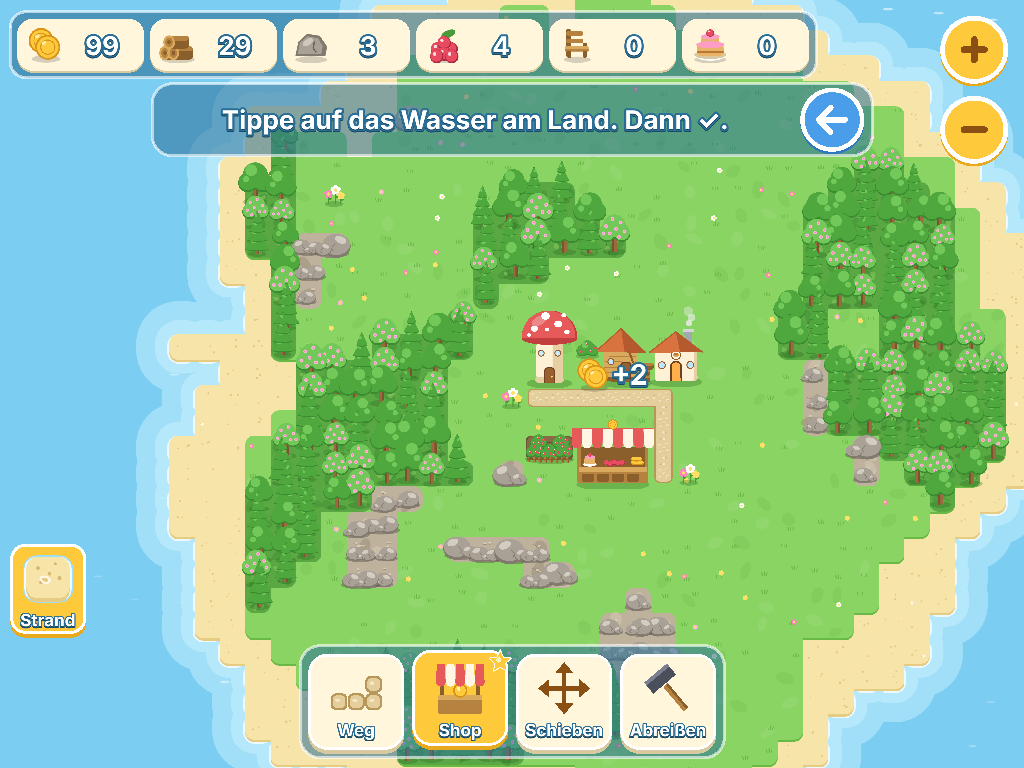
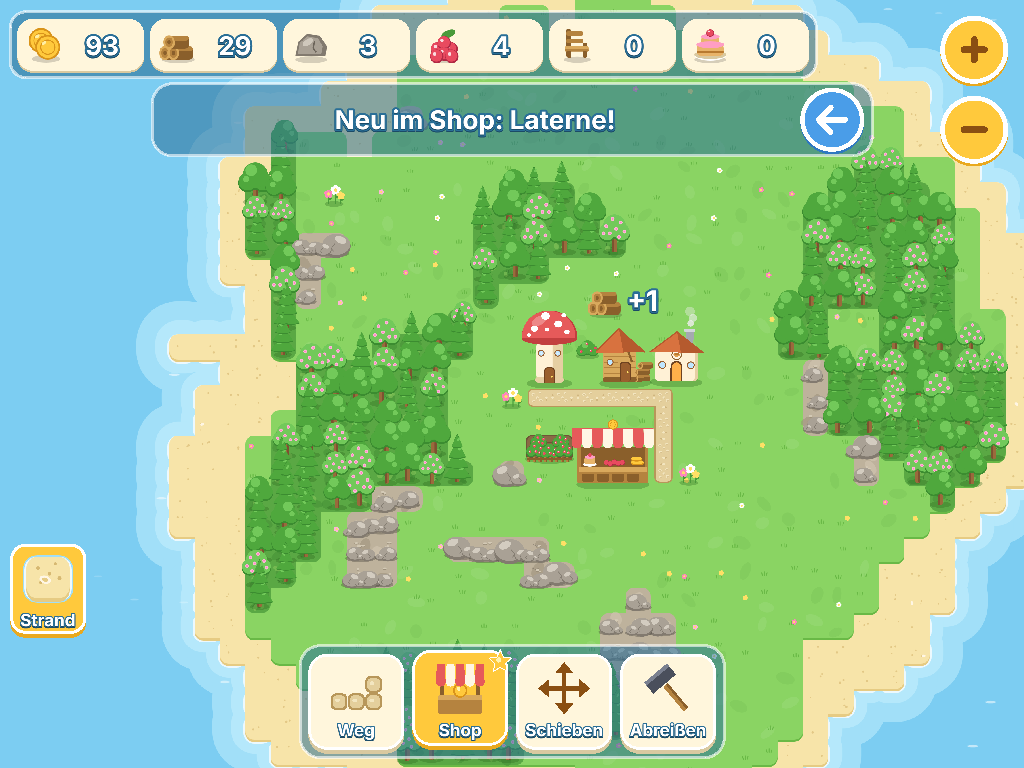
M4 Korrektur 3: Satz-Zeile misst den Text und passt ihn an, kürzere Sperr-Sätze (B1); Neuigkeit zählt ab dem ersten Zeigen (B2)
- Smoke misst die Satzhöhe auf 5 Schirmgrößen; Reihenfolge Shop vor kleinen Schirmen
- Screenshots und Entscheidungen aktualisiert

Claude-Session: https://claude.ai/code/session_015a3tMdQPCWfoYbrEFX6U2W

diff --git a/tests/ui/messageBoard.test.ts b/tests/ui/messageBoard.test.ts
@@ -15,7 +15,8 @@ describe('MessageBoard: Erklärung und Neuigkeit (N3)', () => {
   it('zeigt eine Neuigkeit über einer stehenden Erklärung, danach ist die Erklärung wieder da', () => {
     const board = new MessageBoard();
     board.explain('Das ist von allein gewachsen.');
-    board.announce('Neu im Shop: Bank!', 1000, 7000);
+    board.announce('Neu im Shop: Bank!', 7000);
+    expect(board.current(1000)).toBe('Neu im Shop: Bank!');
     expect(board.current(1000)).toBe('Neu im Shop: Bank!');
     expect(board.current(7999)).toBe('Neu im Shop: Bank!');
     expect(board.current(8000)).toBe('Das ist von allein gewachsen.');
@@ -25,27 +26,40 @@ describe('MessageBoard: Erklärung und Neuigkeit (N3)', () => {
   it('löscht ein Tipp während der Neuigkeit nur die Erklärung, nicht die Neuigkeit', () => {
     const board = new MessageBoard();
     board.explain('Alt.');
-    board.announce('Neu!', 0, 5000);
+    board.announce('Neu!', 5000);
     board.clearExplanation();
     expect(board.current(100)).toBe('Neu!');
-    expect(board.current(5000)).toBeUndefined();
+    expect(board.current(5100)).toBeUndefined();
   });
 
   it('eine Erklärung, die während der Neuigkeit kommt, erscheint nach ihr', () => {
     const board = new MessageBoard();
-    board.announce('Neu!', 0, 5000);
+    board.announce('Neu!', 5000);
     board.explain('Hier geht das nicht.');
     expect(board.current(10)).toBe('Neu!');
-    expect(board.current(5001)).toBe('Hier geht das nicht.');
+    expect(board.current(5010)).toBe('Hier geht das nicht.');
   });
 
   it('hält die Neuigkeit zurück, solange eine Vorschau mit eigenem Hinweis da ist (ihre Zeit läuft weiter)', () => {
     const board = new MessageBoard();
-    board.announce('Neu!', 0, 5000);
+    board.announce('Neu!', 5000);
     expect(board.current(100, false)).toBeUndefined();
     board.explain('Alt.');
     expect(board.current(100, false)).toBe('Alt.');
     expect(board.current(100, true)).toBe('Neu!');
     expect(board.current(6000, true)).toBe('Alt.');
+  });
+
+  it('zählt die Zeit der Neuigkeit erst ab dem ersten Zeigen: eine lange Vorschau davor verschluckt sie nicht (B2)', () => {
+    const board = new MessageBoard();
+    board.announce('Neu im Shop: Strand!', 7000);
+    // 20 Sekunden lang steht eine Vorschau: die Neuigkeit wird zurückgehalten.
+    for (let now = 0; now <= 20_000; now += 1000) {
+      expect(board.current(now, false)).toBeUndefined();
+    }
+    // Danach wird sie voll gezeigt: 7 Sekunden ab jetzt.
+    expect(board.current(20_500, true)).toBe('Neu im Shop: Strand!');
+    expect(board.current(27_000, true)).toBe('Neu im Shop: Strand!');
+    expect(board.current(27_500, true)).toBeUndefined();
   });
 });

diff --git a/src/scenes/island/ShopUI.ts b/src/scenes/island/ShopUI.ts
@@ -128,6 +128,8 @@ export interface ShopSpot {
   readonly active?: boolean;
   /** Tabs: the size of the word under the picture (0: only the picture). */
   readonly font?: number;
+  /** The line: height of the sentence as measured (CSS px). */
+  readonly textH?: number;
 }
 
 /**
@@ -377,8 +379,9 @@ export class ShopUI {
 
   /**
    * The fixed line at the bottom of the panel: the sentence of a locked card, or – while nothing was tapped – a calm standing
-   * sentence. At least 12 px: a long sentence gets two lines where the line is high enough, and every sentence fits one
-   * line at 12 px on the narrowest screen (a test checks their length).
+   * sentence. At least 12 px: the letters get smaller (down to 12 px) until the measured text fits into the line; the
+   * sentences are short enough to fit one line at 12 px on the narrowest line (the smoke test measures the height of
+   * every locked sentence on 480×320, 568×320, 320×568 and 360×640).
    */
   private drawLine(): void {
     const layout = this.layoutData;
@@ -395,9 +398,14 @@ export class ShopUI {
       this.tipPanel.lineStyle(3, COLORS.markerRim, 1).strokeRoundedRect(x, y, width, height, radius);
     }
     const maxW = width - 20;
-    const size = clamp(height * 0.42, MIN_LINE_FONT, 20);
+    let size = clamp(height * 0.42, MIN_LINE_FONT, 20);
     this.tipLabel.setWordWrapWidth(maxW).setText(filled ? this.tip : t('shop.lineDefault')).setAlpha(filled ? 1 : 0.85);
     setLabelSize(this.tipLabel, size, maxW);
+    // The text as measured (after wrapping) must fit into the line: smaller letters until it does, never under 12 px.
+    while (this.tipLabel.height > height - 4 && size > MIN_LINE_FONT) {
+      size -= 1;
+      setLabelSize(this.tipLabel, size, maxW);
+    }
     this.tipLabel.setPosition(x + width / 2, y + height / 2);
   }
 
@@ -415,7 +423,7 @@ export class ShopUI {
     }
     const center = (rect: Rect): { x: number; y: number; w: number; h: number } => ({ x: rect.x + rect.width / 2, y: rect.y + rect.height / 2, w: rect.width, h: rect.height });
     spots['shop'] = center(layout.rect);
-    spots['shop-line'] = center(layout.line);
+    spots['shop-line'] = { ...center(layout.line), textH: this.tipLabel.height };
     SHOP_CATEGORIES.forEach((category, index) => {
       const rect = layout.tabs[index];
       if (rect) {

diff --git a/tests/ui/shopModel.test.ts b/tests/ui/shopModel.test.ts
@@ -60,10 +60,10 @@ describe('shopCards', () => {
 
 describe('Sätze und Symbole für gesperrte Karten', () => {
   it('nennen Gebäude, Häuser und Taler in kurzen Sätzen', () => {
-    expect(unlockSentenceText({ kind: 'count', building: 'lumberjack', count: 1 })).toBe('Baue 1× Holzfällerhütte, dann ist das frei.');
-    expect(unlockSentenceText({ kind: 'houses', count: 2 })).toBe('Baue 2 Häuser, dann ist das frei.');
-    expect(unlockSentenceText({ kind: 'houses', count: 1 })).toBe('Baue ein Haus, dann ist das frei.');
-    expect(unlockSentenceText({ kind: 'earned', coins: 1250 })).toBe('Verdiene 1.250 Taler auf dem Markt, dann ist das frei.');
+    expect(unlockSentenceText({ kind: 'count', building: 'lumberjack', count: 1 })).toBe('Baue 1× Holzfällerhütte, dann ist es frei.');
+    expect(unlockSentenceText({ kind: 'houses', count: 2 })).toBe('Baue 2 Häuser, dann ist es frei.');
+    expect(unlockSentenceText({ kind: 'houses', count: 1 })).toBe('Baue ein Haus, dann ist es frei.');
+    expect(unlockSentenceText({ kind: 'earned', coins: 1250 })).toBe('Verdiene 1.250 Taler am Markt, dann ist es frei.');
   });
 
   it('jede Bedingung der Daten ergibt einen Satz, der in die Hinweisleiste eines Handys passt (höchstens 100 Zeichen)', () => {
@@ -79,16 +79,16 @@ describe('Sätze und Symbole für gesperrte Karten', () => {
     }
   });
 
-  it('jeder Satz für eine gesperrte Karte passt in einer Zeile bei 12 px in die Zeile des schmalsten Handys quer (höchstens 56 Zeichen)', () => {
+  it('jeder Satz für eine gesperrte Karte ist kurz genug für eine Zeile bei 12 px in der Zeile des schmalsten Handys quer (gemessen 5,85 px je Zeichen: höchstens 48 Zeichen bei 296 px; die Höhe misst der Smoke)', () => {
     for (const category of SHOP_CATEGORIES) {
       for (const type of shopItems(category)) {
         const unlock = unlockOf(type.id);
         if (unlock) {
-          expect(unlockSentenceText(unlock).length, type.id).toBeLessThanOrEqual(56);
+          expect(unlockSentenceText(unlock).length, type.id).toBeLessThanOrEqual(48);
         }
       }
     }
-    expect(t('shop.lineDefault').length).toBeLessThanOrEqual(56);
+    expect(t('shop.lineDefault').length).toBeLessThanOrEqual(48);
   });
 
   it('zeigen als Symbol das Gebäude, ein Haus oder Markt und Taler', () => {

diff --git a/src/scenes/island/BuildUI.ts b/src/scenes/island/BuildUI.ts
@@ -43,6 +43,8 @@ export interface UiSpot {
   readonly badge?: boolean;
   /** Toolbar buttons and shop tabs: the size of the word under the picture (0: only the picture). */
   readonly font?: number;
+  /** The shop line: height of the sentence as measured (CSS px). */
+  readonly textH?: number;
 }
 
 /** The words under the toolbar buttons and the shop tabs are at least this big (CSS px), else only the picture stays. */
@@ -512,7 +514,7 @@ export class BuildUI {
     // Something was unlocked: a friendly message (and the star on the shop button, which `refresh` redraws).
     const news = this.tool.takeAnnouncements();
     if (news.length > 0) {
-      this.board.announce(newItemsText(news), this.scene.time.now, NEWS_MS);
+      this.board.announce(newItemsText(news), NEWS_MS);
       this.lastMessage = undefined;
     }
     // The numbers pop when they change; cards that can (not) be paid for change with them.
@@ -549,7 +551,7 @@ export class BuildUI {
         delete spots['zoom-out'];
       }
       for (const [name, spot] of Object.entries(this.shop.spots(this.tool.item))) {
-        spots[name] = { x: spot.x, y: spot.y, enabled: true, w: spot.w, h: spot.h, ...(spot.state !== undefined ? { state: spot.state, dim: spot.state !== 'ok' } : {}), ...(spot.fresh !== undefined ? { fresh: spot.fresh } : {}), ...(spot.active !== undefined ? { active: spot.active } : {}), ...(spot.font !== undefined ? { font: spot.font } : {}) };
+        spots[name] = { x: spot.x, y: spot.y, enabled: true, w: spot.w, h: spot.h, ...(spot.state !== undefined ? { state: spot.state, dim: spot.state !== 'ok' } : {}), ...(spot.fresh !== undefined ? { fresh: spot.fresh } : {}), ...(spot.active !== undefined ? { active: spot.active } : {}), ...(spot.font !== undefined ? { font: spot.font } : {}), ...(spot.textH !== undefined ? { textH: spot.textH } : {}) };
       }
       const stockRect = this.stock.rect;
       spots['stock'] = { x: stockRect.x + stockRect.width / 2, y: stockRect.y + stockRect.height / 2, enabled: true, w: stockRect.width, h: stockRect.height };

diff --git a/src/ui/messageBoard.ts b/src/ui/messageBoard.ts
@@ -7,7 +7,8 @@
  */
 export class MessageBoard {
   private explanation: string | undefined;
-  private news: { readonly text: string; readonly until: number } | undefined;
+  /** `until` is set when the news is first really shown: a preview that keeps it back does not use up its time. */
+  private news: { readonly text: string; readonly durationMs: number; until: number | undefined } | undefined;
 
   /** An explanation that stays until {@link clearExplanation}. */
   explain(text: string): void {
@@ -19,18 +20,21 @@ export class MessageBoard {
     this.explanation = undefined;
   }
 
-  /** News that shows for `durationMs` from `now`. */
-  announce(text: string, now: number, durationMs: number): void {
-    this.news = { text, until: now + durationMs };
+  /** News that shows for `durationMs`, counted from the first time it is really shown. */
+  announce(text: string, durationMs: number): void {
+    this.news = { text, durationMs, until: undefined };
   }
 
   /**
    * What the hint bar shows at time `now`: news while it lasts, else the explanation, else nothing. `withNews = false`
-   * keeps the news back (its time still runs): while a preview is on, its own hint ("Du bekommst 5 Taler zurück. Dann ✓.") matters more.
+   * keeps the news back (its time starts only when it is shown): while a preview is on, its own hint ("Du bekommst 5 Taler zurück. Dann ✓.") matters more.
    */
   current(now: number, withNews = true): string | undefined {
-    if (withNews && this.news && now < this.news.until) {
-      return this.news.text;
+    if (withNews && this.news) {
+      this.news.until ??= now + this.news.durationMs;
+      if (now < this.news.until) {
+        return this.news.text;
+      }
     }
     return this.explanation;
   }

diff --git a/docs/ENTSCHEIDUNGEN.md b/docs/ENTSCHEIDUNGEN.md
@@ -107,7 +107,7 @@ Selbst getroffene Entscheidungen während des autonomen Laufs, die der Entwicklu
 | 31.10.2026 | M4 | **Daten:** `buildings.json` bekommt je Artikel (nicht Weg) `shop: { category }` (`houses`, `deco`, `production`, `island`; die Reihenfolge der Datei ist die Reihenfolge im Shop), optional `unlock` und bei Inselartikeln `island: { action }` (`plantTree`, `placeRock`, `fillLand`, `makeMeadow`); `look.scale` zeichnet das große Haus 1,5-fach. Die Typen der Kategorie `island` sind Bautypen ohne Gebäude (1×1, `terrains` = der Boden, den sie brauchen). Laufzeit: `unlockOf` prüft und liefert bei kaputten Werten „frei“ (ein Tippfehler sperrt nie für immer), `shopItems`, `shopCategoryOf`; Test `tests/data/shop.test.ts`: jede Kategorie ≥ 3 Artikel, jeder Artikel in genau einer Kategorie passend zur Art, Preise ganz und aus bekannten Dingen, jede `unlock`-Referenz zeigt auf einen vorhandenen Typ (nicht auf sich selbst, nicht auf Weg oder Inselartikel), keine Kreise, jede Kette endet bei einem freien Typ, Holzfäller, Beerengarten, Markt, Baum, Fels sind frei, alle Texte vorhanden. Kostenzeile (`CostRow`) zeigt höchstens 4 verschiedene Dinge | Balancing und Inhalt ohne Code; ein Fehler im JSON fällt im CI auf und stürzt zur Laufzeit nicht ab (wie in M3) | Eigene Shop-Datei mit Artikelliste; Reihenfolge per Zahl `order` |
 | 31.10.2026 | M4 | **Freischaltungen laufen über Dorf-Fortschritt**, ohne zweite Währung und ohne Extra-Zahlung. Bedingungen (`unlock` in `buildings.json`): `count` (mindestens N Gebäude vom Typ X stehen), `houses` (mindestens N Häuser jeder Art stehen), `earned` (der Markt hat insgesamt mindestens N Taler verdient). Zustand: `earnedCoins` (der Markt zählt jeden Verkauf; Obergrenze wie das Lager), `unlocked` (Liste der Typ-Ids mit Bedingung, in der Reihenfolge der Erfüllung, JSON-tauglich, `normalizeUnlocked` für M5); **einmal erfüllt bleibt ein Artikel für immer frei**, auch nach Abreißen. `src/sim/unlocks.ts` (rein, getestet): `checkUnlocks` läuft am Ende jedes Ticks und nach jedem Befehlsstapel (auch pausiert; der Startzustand prüft einmal), `isUnlocked`, `progressOf`, `lockOf`. `checkPlacement` meldet `locked` **gleich nach „unbekannter Typ“** (vor Rand, Boden, Kosten); `placeBuilding` und die Inselbefehle eines gesperrten Typs ändern nichts; **Verschieben** prüft `locked` nicht (was steht, ist frei). Nichts, was man zum Weiterkommen braucht, ist gesperrt: Holzfäller, Beerengarten, Markt, Haus (rot, blau, gelb), Blume, Busch, Zaun, Baum und Fels sind von Anfang an frei | Freischalten ist Spielfortschritt statt Kaufzwang; einfache Zählwerte (ein Kind sieht „0/1“); permanent, damit Abreißen nichts wegnimmt; kein Weg in die Sackgasse (der Bot-Test schaltet alles frei) | Zweite Währung („Sterne“); Freischaltung gegen Taler; Bedingungen auf dem Zustand (nicht dauerhaft); Zeit als Bedingung |
 | 31.10.2026 | M4 | **(Werte für Beere, Kuchen, Beerengarten, Garten-Haus und Brunnen geändert in Korrekturrunde 1, siehe unten.) Balancing der Freischaltungen und Preise** (alles in `buildings.json`): Bäckerei nach 1 Beerengarten (steht am Start, also sofort frei), Schreinerei und Steinbruch nach 1 Holzfäller, Teich nach 1 Steinbruch; Großes Pilzhaus (3×3, 90 Taler + 16 Holz) und Blumenbeet nach 2 Häusern (das Startdorf hat 1); Bank nach 40, Strand 60, Laterne 100, Wiese 120, Pilzhaus mit Garten (3×2, 70 Taler + 10 Holz) 150, Brunnen 250 verdienten Talern. Der Bot (Bäckerei zuerst) erreicht die ersten sechs Freischaltungen in etwa 2 Minuten, alle in etwa 5 Minuten; ein Kind braucht erfahrungsgemäß das Zwei- bis Dreifache, also die ersten Neuigkeiten nach wenigen Minuten und alles nach 10–15. Kosten: Blumenbeet 8 Taler, Teich 20 Taler + 2 Stein, Baum 5 Taler, Fels 10 Taler, Strand 6 Taler, Wiese 4 Taler (alle anderen wie in M3) | Schnell etwas Neues, aber nicht alles auf einmal; Verdienen (Markt) und Bauen führen beide weiter, nichts wartet auf Zufall | Höhere Schwellen (erst ab 30 Minuten alles frei); Freischaltung nur über Gebäude |
-| 31.10.2026 | M4 | **Neu freigeschaltet:** Die Szene zeigt für 5 Sekunden in der Hinweisleiste „Neu im Shop: Bank und Laterne!“ (höchstens drei Namen, `newItemsText`), und der Shop-Knopf trägt einen Stern, bis der Shop geöffnet wurde; im geöffneten Shop tragen die neuen Karten einen Stern, bis er geschlossen wird; was während des offenen Shops frei wird, zählt sofort als gesehen, trägt aber ebenfalls den Stern. `BuildTool` hält dafür `takeAnnouncements` (jede Freischaltung einmal), `shopHasNews`, `isFresh`. Beim Start (und später beim Laden, M5) gibt es keine Meldung für schon Freigeschaltetes. Gesperrte Karten zeigen ein goldenes Schloss auf dem grauen Bild und als Fuß statt der Kosten das **Bild der Bedingung mit „0/1“** (Gebäude, ein Haus oder Taler); ein Tipp auf die Karte wählt nichts und zeigt 3,4 Sekunden lang den kurzen Satz in einer Sprechblase („Baue 1× Holzfällerhütte, dann ist das frei.“) | Das Kind sieht sofort, dass es Neues gibt, und wo; Bild + Zahl reichen ohne Lesen, der Satz erklärt für Leser; keine Meldung beim Laden verhindert Lärm | Eigener Dialog; Meldung bis zum Antippen; Stern nur am Knopf |
+| 31.10.2026 | M4 | **Neu freigeschaltet:** Die Szene zeigt für 5 Sekunden in der Hinweisleiste „Neu im Shop: Bank und Laterne!“ (höchstens drei Namen, `newItemsText`), und der Shop-Knopf trägt einen Stern, bis der Shop geöffnet wurde; im geöffneten Shop tragen die neuen Karten einen Stern, bis er geschlossen wird; was während des offenen Shops frei wird, zählt sofort als gesehen, trägt aber ebenfalls den Stern. `BuildTool` hält dafür `takeAnnouncements` (jede Freischaltung einmal), `shopHasNews`, `isFresh`. Beim Start (und später beim Laden, M5) gibt es keine Meldung für schon Freigeschaltetes. Gesperrte Karten zeigen ein goldenes Schloss auf dem grauen Bild und als Fuß statt der Kosten das **Bild der Bedingung mit „0/1“** (Gebäude, ein Haus oder Taler); ein Tipp auf die Karte wählt nichts und zeigt 3,4 Sekunden lang den kurzen Satz in einer Sprechblase („Baue 1× Holzfällerhütte, dann ist es frei.“) | Das Kind sieht sofort, dass es Neues gibt, und wo; Bild + Zahl reichen ohne Lesen, der Satz erklärt für Leser; keine Meldung beim Laden verhindert Lärm | Eigener Dialog; Meldung bis zum Antippen; Stern nur am Knopf |
 | 31.10.2026 | M4 | **Kategorie „Insel“** (Vorstufe der Insel-Erweiterungen aus M10): vier Artikel, die das **Gelände** einer Kachel ändern statt ein Gebäude zu setzen – Baum pflanzen (Wiese → Wald, zählt für den Holzfäller), Fels setzen (Wiese → Fels, zählt für den Steinbruch), Strand aufschütten (Wasser, das an Land grenzt → Strand), Wiese anlegen (Strand → Wiese, damit man darauf bauen kann). Eigene Befehle in `commands.ts` (`plantTree`, `placeRock`, `fillLand`, `makeMeadow`, `placementCommand` wählt den richtigen), `src/sim/island.ts`; Prüfung über dasselbe `checkPlacement` (Boden, nichts darauf, Kosten, gesperrt) mit zwei neuen Gründen `locked` und `noCoast`; **Land entsteht nicht näher als 2 Kacheln am Kartenrand** (`ISLAND_EDGE`, sonst `outOfMap`, „zu nah am Rand“): die Insel bleibt von Wasser umgeben und die Textur bleibt 48×48. Jede Änderung zählt als Änderung (`revision`). **Abreißen** erstattet bei einem **selbst gepflanzten** Baum oder Fels die Kosten und macht die Kachel zur Wiese (`planted`: Liste der Kacheln im Zustand, sortiert; ein Baum, der später etwas anderes ist, gibt nichts); **natürliche** Bäume und Felsen lassen sich nicht abreißen (Hinweis „Das ist von allein gewachsen. Das bleibt.“). **Ausnahme vom Prinzip „Abreißen erstattet“:** Strand aufschütten und Wiese anlegen sind endgültig und bekommen keine Erstattung (billig: 6 und 4 Taler; die Vorschau zeigt vorher die Kosten); das Abreißen auf solchen Kacheln tut nichts | Gestalten ist der Kern-Spaß; vier Artikel zeigen schon, wie die Insel wachsen kann, ohne M10 vorwegzunehmen; die Ausnahme ist nötig, weil „Wasser zurück“ die Karte und ihre Wege/Gebäude durcheinanderbrächte | Land auch ohne Anschluss ans Ufer; Erstattung auch für Strand; Bäume pflanzen nur im Wald |
 | 31.10.2026 | M4 | **(Ersetzt in Korrekturrunde 1 durch Blöcke, siehe unten.) Boden neu malen:** Der Boden ist eine Canvas-Textur (3072×3072). `repaintGround` (`groundTexture.ts`) schneidet auf die geänderten Kacheln plus `REPAINT_REACH` = 2 Kacheln zu (so weit reichen Meerhalo, Schaum und Ecken), füllt sie mit Tiefwasser und malt dort alle Schichten für die Kacheln im Umkreis von 2 weiteren Kacheln – das Ergebnis ist bis auf Rundungen am Rand des Bereichs gleich zu einem ganzen Neumalen (einmalig in Chromium verglichen: nach Strand, Wiese, Baum und Fels hintereinander auf vier Inseln weichen nur einige hundert Randwerte um höchstens 4 von 255 ab, nicht sichtbar) –, danach `texture.refresh()`; sind mehr als ein Viertel der Karte betroffen, wird ganz neu gemalt. `IslandScene.syncTerrain` vergleicht bei jeder neuen `revision` das Gelände mit dem Gezeichneten, tauscht Baum- und Felsbilder aus (neue ploppen auf, Puff), entfernt Wasserglitzern auf neuem Land und ersetzt die Kamera-Mittelpunktsbereiche (`landRegions`), wenn Land dazukam (das Kamera-Objekt liest sie bei jedem Zug neu). **Gemessen** (Headless-Chromium, Software-Rendering, 8 fps): Baum 50–60 ms für 25 Kacheln inklusive Textur-Upload, Strand ähnlich; veröffentlicht in `<html data-repaint>`, der Smoke-Test verlangt unter 250 ms | Ein Baum soll nicht 100 ms am Stück kosten; Teilmalen ist nur eine Zuschneide-Region und derselbe Code; das Ergebnis ändert sich nicht | Ganze Textur neu malen (etwa 6-mal so viele Kacheln); Boden aus Kachel-Sprites statt einer Textur |
 | 31.10.2026 | M4 | **Mehr Inhalt, Platzhalter** (Canvas, Kachelgröße 64): 5 Häuser (rot, blau, gelb wie bisher; Großes Pilzhaus grün 3×3; Pilzhaus mit Garten rosa 3×2 mit Beet und Zäunchen), 8 Deko (Blume, Busch, Zaun, Bank, Laterne, Brunnen wie in M3; neu Blumenbeet 2×1 und Teich 2×2), die 6 Gebäude aus M3, 4 Inselartikel. Das große Haus ist dasselbe Bild 1,5-fach (`look.scale`). **Zaun deutlicher** (Spieltest M3): 4 hohe helle Latten mit Spitze, dicken Riegeln und dunkler Kante, Bild 34 statt 14 px über der Kachel | Auswahl zum Gestalten, auf Karten gut unterscheidbar; der Zaun war als Karte kaum zu erkennen | Eigene Zeichnung für das große Haus |
@@ -121,4 +121,5 @@ Selbst getroffene Entscheidungen während des autonomen Laufs, die der Entwicklu
 | 31.10.2026 | M4 | **Korrekturrunde 1 – Zufallstest mit Küste (R2):** Zwei Runden (Seeds 1 und 4): wie am Start (Strand und Wiese gesperrt – es darf keiner gelingen, solange `beach` und `meadow` nicht frei sind) und mit allem freigeschaltet und viel Geld; `fillLand` zielt auf Wasser an Land, `makeMeadow` auf Strand (Liste alle 5 Schritte neu); **2500 Schritte** bei 10 Befehlsarten (Setzen 2 von 10, Wege, Verschieben, Abreißen je 1 von 10 – also 500, 250, 250, 250 Mal wie in M3 mit 1500 Schritten bei 6 Arten); nach jeder Runde müssen mindestens 10 Strände, 5 Wiesen, 5 Bäume und 5 Felsen gelungen sein, die Invarianten (Lager, `planted` sortiert mit Artikel, `unlocked` nur Typen mit Bedingung, `earnedCoins` ganz) gelten nach jedem Schritt | Strand und Wiese waren im alten Test beim Start gesperrt und zielten ins Blaue; jetzt sind sie wirklich im Spiel | Nur die zweite Runde (die Sperre würde nie geprüft) |
 | 31.10.2026 | M4 | **Korrekturrunde 1 – Kleinigkeiten:** (R5) Ein gepflanzter Baum auf der Kachel zählt wie ein Weg: der Dach-Treffer eines Hauses dahinter gewinnt nicht mehr, der Baum lässt sich abreißen (`BuildTool.tap`, Test); (R6) `unlockOf` akzeptiert bei `count` nur Typen, die stehen können (Haus, Deko, Gebäude), nicht Weg oder Inselartikel; (R7) Die Inselbefehle tragen `typeId` und werden gegen `island.action` des Artikels geprüft (`ISLAND_COMMAND_ITEMS` entfällt), `planted` speichert `{ index, type }` (`PlantedTile`, `normalizePlanted` prüft Typ und Gelände), die Erstattung folgt dem Artikel; (R8) „0/1“ kommt aus `texts.de.json` (`shop.progress`); (R9) der Unit-Test „Werkzeug erneut antippen behält die Vorschau“ ist zurück (Weg und Shop), ebenso die Smoke-Prüfung mit `path`; (R10) Meldungen und Sterne vergleichen **nach Artikel-Id** (Menge vorher/nachher) statt nach Platz in `state.unlocked`; (T5) Reiter und Werkzeugleiste zeigen das Wort ab 12 px, sonst bei **allen** Knöpfen nur das Symbol (`SquareButton.minCaptionFont`, `setCaptionOff`, `captionFont` im `data-ui`), das Werkzeug heißt „Schieben“ (passt auch auf 320 px); (T8) Bei verdienten Talern zeigt die Karte **Markt und Münze** vor der Zahl („auf dem Markt verdienen“, `unlockIcons`); (R11) `CLAUDE.md` nennt `--out docs/screenshots/m5` als Beispiel (Standard m4), der Kommentar in `testShopSmall` stimmt | Review und Spieltest der ersten Fassung; jede Kleinigkeit mit Test | — |
 | 31.10.2026 | M4 | **Für M5 (Speichern) vermerkt:** Der Spielstand muss das **Gelände** (`world.tiles`) mitspeichern – ab M4 ändert es sich (Baum, Fels, Strand, Wiese); die Insel allein aus dem Seed zu erzeugen reicht nicht mehr. Es fehlen noch Normalisierer für das Gelände (nur bekannte Geländearten, Länge = Breite × Höhe) und für `earnedCoins` (ganze Zahl ≥ 0, höchstens `storage.max`); vorhanden sind `normalizeInventory`, `normalizePaths`, `normalizeUnlocked`, `normalizePlanted`. Das Laden darf keine „Neu im Shop“-Meldungen für schon Freigeschaltetes erzeugen (Meldungen und Sterne zählen nach Id, die Szene merkt sich beim Start die Menge) | Sonst fehlen nach dem Laden gepflanzte Bäume oder aufgeschüttetes Land, und Gebäude stünden auf Wasser | — |
-| 31.10.2026 | M4 | **Korrekturrunde 2 (Kosmetik):** (N1) `releaseGroundBlocks` entfernt die Block-Texturen und liefert die leere Liste, beim Herunterfahren und beim Neubauen der Szene: kein „No texture found matching key“ mehr beim Neustart (M5), Test; (N2) Die Zeile im Shop nimmt nie weniger als 12 px (zwei Zeilen, wo die Höhe reicht, sonst eine Zeile: auf Handys quer 30 px hoch, Rahmen oben 6 und unten 4 px, damit die 8 Karten weiter ohne Blättern passen); Test: jeder Sperr-Satz höchstens 56 Zeichen, also eine Zeile bei 12 px auch auf 480 px Breite; ohne Tipp steht in der Zeile ein ruhiger Standardsatz „Tippe auf etwas, das du bauen möchtest.“ (`shop.lineDefault`) statt eines leeren dunklen Balkens; (N3) `MessageBoard` (`src/ui/messageBoard.ts`, Test) hält Erklärung und Neuigkeit getrennt: „Neu im Shop“ liegt 7 s über einer stehenden Erklärung, danach ist sie wieder da (bis zum nächsten Tipp); (N4) die Einkommens-Tests zählen genau einen Tick pro Durchlauf (vorher einen zusätzlichen alle 20), der Test heißt und prüft 80–95 s, die letzte Freischaltung liegt bei mindestens 5 Minuten (gilt mit korrekten Zeiten); (N5) der Zusatzsatz „Möbel bringen viele Taler.“ wird über `shop.newValuableJoin` angefügt statt mit einem Leerzeichen-Literal; (N6) Schranke der Mal-Reichweite = `REPAINT_REACH · TILE − (Rand + unsichtbarer Rand)`; Der Gruß „Hallo Insel!“ aus M0 (halbtransparenter Rest über dem Startbild) und sein Text `island.greeting` entfallen; (T2) Fehlt nur Holz, nennt der Hinweis „Dir fehlen 2 Holz. Holz bringt der Holzfäller – oder reiß etwas ab.“ (`way.wood`) – der Weg zum Holzfäller ist klar, nichts geändert | Kleinigkeiten aus Re-Review und Spieltest; Erklärungen sollen nicht von Meldungen verschluckt werden, 11 px sind für 7-Jährige zu klein | Zeile abschneiden; Gruß behalten |
+| 31.10.2026 | M4 | **Korrekturrunde 2 (Kosmetik):** (N1) `releaseGroundBlocks` entfernt die Block-Texturen und liefert die leere Liste, beim Herunterfahren und beim Neubauen der Szene: kein „No texture found matching key“ mehr beim Neustart (M5), Test; (N2) Die Zeile im Shop nimmt nie weniger als 12 px (zwei Zeilen, wo die Höhe reicht, sonst eine Zeile: auf Handys quer 30 px hoch, Rahmen oben 6 und unten 4 px, damit die 8 Karten weiter ohne Blättern passen); **(Die Prüfung „höchstens 56 Zeichen“ war falsch, ersetzt in Korrekturrunde 3.)** ohne Tipp steht in der Zeile ein ruhiger Standardsatz „Tippe auf etwas, das du bauen möchtest.“ (`shop.lineDefault`) statt eines leeren dunklen Balkens; (N3) `MessageBoard` (`src/ui/messageBoard.ts`, Test) hält Erklärung und Neuigkeit getrennt: „Neu im Shop“ liegt 7 s über einer stehenden Erklärung, danach ist sie wieder da (bis zum nächsten Tipp); (N4) die Einkommens-Tests zählen genau einen Tick pro Durchlauf (vorher einen zusätzlichen alle 20), der Test heißt und prüft 80–95 s, die letzte Freischaltung liegt bei mindestens 5 Minuten (gilt mit korrekten Zeiten); (N5) der Zusatzsatz „Möbel bringen viele Taler.“ wird über `shop.newValuableJoin` angefügt statt mit einem Leerzeichen-Literal; (N6) Schranke der Mal-Reichweite = `REPAINT_REACH · TILE − (Rand + unsichtbarer Rand)`; Der Gruß „Hallo Insel!“ aus M0 (halbtransparenter Rest über dem Startbild) und sein Text `island.greeting` entfallen; (T2) Fehlt nur Holz, nennt der Hinweis „Dir fehlen 2 Holz. Holz bringt der Holzfäller – oder reiß etwas ab.“ (`way.wood`) – der Weg zum Holzfäller ist klar, nichts geändert | Kleinigkeiten aus Re-Review und Spieltest; Erklärungen sollen nicht von Meldungen verschluckt werden, 11 px sind für 7-Jährige zu klein | Zeile abschneiden; Gruß behalten |
+| 31.10.2026 | M4 | **Korrekturrunde 3:** (B1) Die Satz-Zeile im Shop misst den Text nach dem Umbruch und verkleinert die Schrift, bis er in die Zeile passt (nie unter 12 px); die Sperr-Sätze sind kürzer („Verdiene 300 Taler am Markt, dann ist es frei.“, „Baue 1× Holzfällerhütte, dann ist es frei.“), damit sie bei 12 px in einer Zeile in die schmalste Zeile (480×320: 316 px) passen; Unit-Test: höchstens 48 Zeichen (gemessen 5,85 px je Zeichen), **Smoke:** für jeden Sperr-Satz auf 320×568, 568×320, 640×360, 480×320 und 360×640 die gemessene Höhe (`data-ui` `shop-line.textH`) höchstens so hoch wie die Zeile; (B2) `MessageBoard.announce` zählt die 7 Sekunden erst ab dem ersten tatsächlichen Zeigen, eine lange Vorschau davor verschluckt „Neu im Shop“ nicht mehr (Test) | Ein 7-Jähriger braucht den ganzen Satz und die ganze Meldung | Zeile höher machen; Neuigkeit nach der Vorschau neu ansagen |
